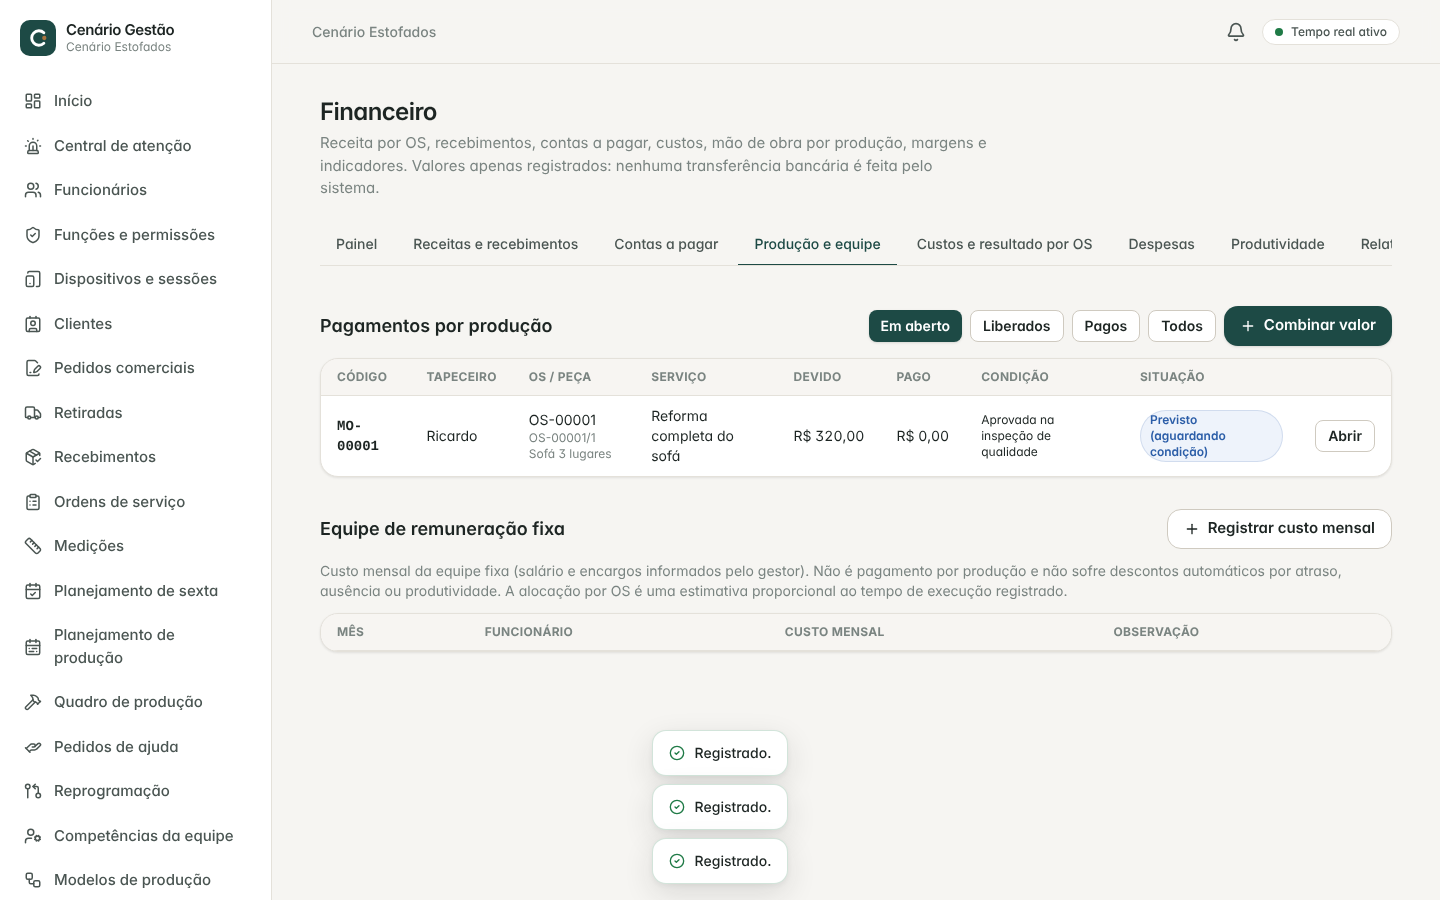
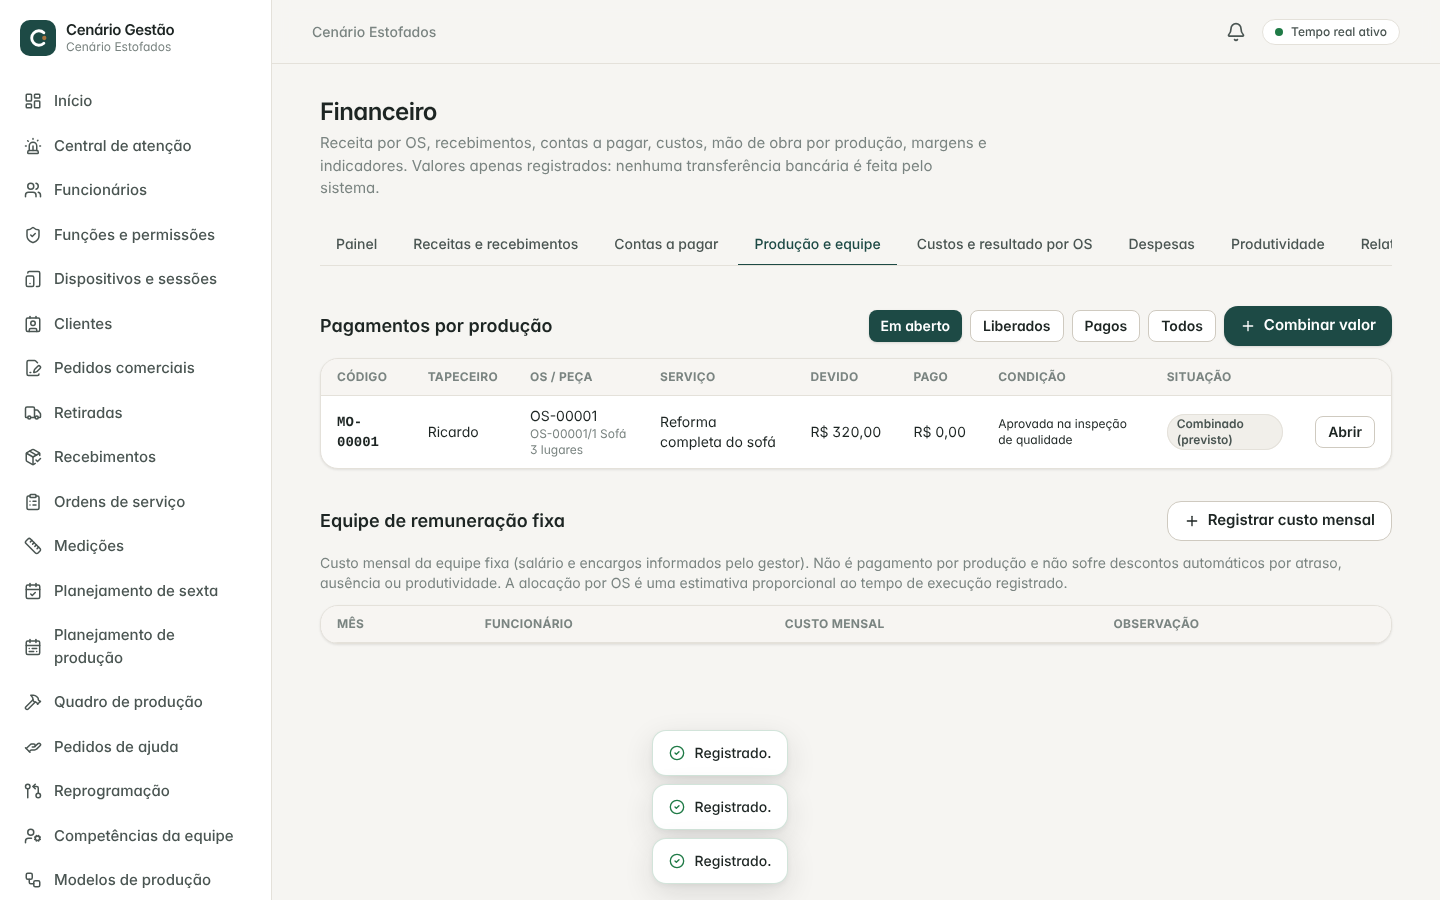
Evolução Fase 5: E2E gestor + Ricardo + Márcio + João e evidências (dados sintéticos)
Claude-Session: https://claude.ai/code/session_0124mZCwkB29MENvMMGuuXED

diff --git a/tests/e2e/specs/team-labor.spec.ts b/tests/e2e/specs/team-labor.spec.ts
@@ -1,0 +1,191 @@
+import { expect, test, type Page } from '@playwright/test';
+import { E2E } from '../env';
+import { loginAdmin, openTablet, registerDevice, setPin } from './helpers';
+import { openServiceOrder } from './os-helpers';
+
+/**
+ * Evolução, Fase 5 — mão de obra dos tapeceiros. Painel (gestor) + tablets do Ricardo, do
+ * Márcio e do João (sem permissão). Dados fictícios; nenhum pagamento real.
+ * Sofá → Ricardo (R$ 320,00, combinado na tela da OS); poltronas → Márcio (R$ 450,00). O sofá
+ * passa para o Márcio: revisão financeira aberta, resolvida pelo gestor (Ricardo R$ 100,00,
+ * Márcio R$ 220,00). Cada um vê só os próprios valores, com PIN redigitado.
+ */
+const origin = `http://localhost:${E2E.webPort}`;
+const evidence = (page: Page, name: string) =>
+  process.env.E2E_EVIDENCE
+    ? page.screenshot({ path: `../../docs/evidencias/evolucao-fase-5/${name}.png`, fullPage: true })
+    : Promise.resolve();
+
+async function call(page: Page, method: 'POST' | 'PUT' | 'GET', path: string, data?: unknown) {
+  const r = await page.request.fetch(path, {
+    method,
+    data,
+    headers: { origin, 'idempotency-key': crypto.randomUUID().replace(/-/g, '') },
+  });
+  expect(r.ok(), `${method} ${path}: ${await r.text()}`).toBe(true);
+  return r.json();
+}
+
+async function grant(page: Page, displayName: string, permission: string) {
+  const list = await call(page, 'GET', '/api/employees');
+  const summary = list.find((e: { displayName: string }) => e.displayName === displayName);
+  const e = await call(page, 'GET', `/api/employees/${summary.id}`);
+  await call(page, 'PUT', `/api/employees/${e.id}`, {
+    fullName: e.fullName,
+    displayName: e.displayName,
+    jobTitle: e.jobTitle,
+    color: e.color,
+    roleIds: e.roles.map((r: { id: string }) => r.id),
+    extraPermissions: [...new Set([...e.extraPermissions, permission])],
+    version: e.version,
+  });
+}
+
+test.describe.serial('Evolução Fase 5 — mão de obra dos tapeceiros', () => {
+  test('valor por peça na OS, substituição com revisão, resolução e "Meus valores" com PIN', async ({
+    page,
+    browser,
+  }) => {
+    test.setTimeout(300_000);
+    await page.setViewportSize({ width: 1440, height: 900 });
+    await loginAdmin(page);
+    const people = (await call(page, 'GET', '/api/v1/finance/people')) as {
+      userId: string;
+      displayName: string;
+    }[];
+    const who = (n: string) => people.find((w) => w.displayName.startsWith(n))!;
+    const RIC = who('Ricardo');
+    const MAR = who('Márcio');
+    const JOAO = who('João');
+    const so = await openServiceOrder(page, 'Cliente Mão de Obra E2E');
+    const [sofa, polt] = so.items as { id: string; code: string }[];
+    const owner = (
+      itemId: string,
+      userId: string,
+      expectedUserId: string | null,
+      reason?: string,
+    ) =>
+      call(page, 'PUT', `/api/v1/service-order-items/${itemId}/upholsterer`, {
+        userId,
+        expectedUserId,
+        reason,
+        confirm: Boolean(expectedUserId),
+      });
+    await owner(sofa!.id, RIC.userId, null);
+    await owner(polt!.id, MAR.userId, null);
+
+    // ── Painel: aba "Mão de obra" da OS; sem valor ≠ R$ 0; combinar valor do sofá ──
+    await page.goto(`/painel/os/${so.id}`);
+    await page.getByRole('tab', { name: 'Mão de obra' }).click();
+    await expect(page.getByTestId(`no-value-${sofa!.code}`)).toHaveText('Sem valor combinado.');
+    await page.getByTestId(`agree-${sofa!.code}`).click();
+    const dlg = page.getByRole('dialog');
+    await dlg.getByLabel('Serviço').fill('Reforma completa do sofá');
+    await dlg.getByLabel('Valor combinado (R$)').fill('320,00');
+    await dlg.getByLabel('Liberar o pagamento quando').selectOption('PRODUCAO_CONCLUIDA');
+    await dlg.getByRole('button', { name: 'Combinar' }).click();
+    const pieceSofa = page.getByTestId(`os-labor-piece-${sofa!.code}`);
+    await expect(pieceSofa).toContainText('R$ 320,00');
+    await expect(pieceSofa).toContainText('Combinado (previsto)');
+    await expect(pieceSofa).toContainText(`Titular: ${RIC.displayName}`);
+    const mar = await call(page, 'POST', '/api/v1/finance/labor', {
+      professionalUserId: MAR.userId,
+      serviceOrderId: so.id,
+      serviceOrderItemId: polt!.id,
+      service: 'Troca de tecido das poltronas',
+      agreedCents: 45000,
+      eligibility: 'QUALIDADE_APROVADA',
+    });
+    await page.reload();
+    await page.getByRole('tab', { name: 'Mão de obra' }).click();
+    await expect(page.getByTestId(`os-labor-piece-${polt!.code}`)).toContainText('R$ 450,00');
+    await evidence(page, '01-os-mao-de-obra-por-peca');
+
+    // ── Substituição do titular do sofá → revisão financeira, nada transferido ──
+    await owner(sofa!.id, MAR.userId, RIC.userId, 'Ricardo afastado (teste)');
+    await page.reload();
+    await page.getByRole('tab', { name: 'Mão de obra' }).click();
+    await expect(page.getByText(/Revisão financeira pendente — RF-\d{5}/)).toBeVisible();
+    await expect(pieceSofa).toContainText('Em revisão financeira');
+    await expect(pieceSofa).toContainText(RIC.displayName); // obrigação continua do Ricardo
+    await evidence(page, '02-revisao-financeira-aberta');
+    const ricPay = (await call(page, 'GET', `/api/v1/finance/service-orders/${so.id}/labor`))
+      .pieces[0].payables[0];
+    const blocked = await page.request.post(`/api/v1/finance/labor/${ricPay.id}/adjustments`, {
+      data: { amountCents: 1000, reason: 'Teste de bloqueio', version: ricPay.version },
+      headers: { origin, 'idempotency-key': crypto.randomUUID().replace(/-/g, '') },
+    });
+    expect(blocked.status()).toBe(422);
+
+    // ── Resolução explícita: Ricardo R$ 100,00 + Márcio R$ 220,00, com justificativa ──
+    await page.getByRole('button', { name: 'Resolver revisão' }).first().click();
+    const rd = page.getByRole('dialog');
+    await rd.getByTestId(`resolve-amount-${RIC.displayName}`).fill('100,00');
+    await rd.getByTestId(`resolve-amount-${MAR.displayName}`).fill('220,00');
+    await expect(rd.getByTestId('resolve-totals')).toContainText('R$ 320,00');
+    await rd.getByTestId('resolve-reason').fill('Ricardo fez a desmontagem; Márcio termina');
+    await evidence(page, '03-resolver-revisao');
+    await rd.getByTestId('resolve-submit').click();
+    await expect(page.getByText(/Revisão financeira pendente/)).toHaveCount(0);
+    await expect(pieceSofa).toContainText('R$ 100,00');
+    await expect(pieceSofa).toContainText('R$ 220,00');
+    await evidence(page, '04-revisao-resolvida');
+
+    // ── Tablets: Ricardo e Márcio autorizados (PIN a cada abertura); João sem permissão ──
+    await grant(page, RIC.displayName, 'financeiro.producao_propria');
+    await grant(page, MAR.displayName, 'financeiro.producao_propria');
+    const tablet = async (name: string, pin: string) => {
+      await setPin(page, name, pin);
+      return openTablet(browser, await registerDevice(page, `Tablet ${name} (F5)`, name), pin);
+    };
+    const r = await tablet(RIC.displayName, '482915');
+    const rt = r.page;
+    expect((await rt.request.get('/api/v1/finance/my-production')).status()).toBe(403);
+    await rt.getByTestId('tile-values').click();
+    await expect(rt.getByTestId('my-values-lock')).toBeVisible();
+    await expect(rt.getByTestId('my-values')).toHaveCount(0);
+    await rt.getByTestId('my-values-pin').fill('000000');
+    await rt.getByTestId('my-values-unlock').click();
+    await expect(rt.getByRole('alert').filter({ hasText: 'PIN' })).toBeVisible();
+    await rt.getByTestId('my-values-pin').fill('482915');
+    await rt.getByTestId('my-values-unlock').click();
+    const rv = rt.getByTestId('my-values');
+    await expect(rv).toContainText('R$ 100,00');
+    await expect(rv).not.toContainText('220,00');
+    await expect(rv).not.toContainText('450,00');
+    await expect(rv).not.toContainText(MAR.displayName);
+    await evidence(rt, '05-tablet-ricardo-meus-valores');
+    expect((await rt.request.get(`/api/v1/finance/labor/${mar.id}`)).status()).toBe(403);
+    expect((await rt.request.get(`/api/v1/finance/service-orders/${so.id}/labor`)).status()).toBe(
+      403,
+    );
+    await rt.getByTestId('my-values-hide').click();
+    await expect(rt.getByTestId('my-values')).toHaveCount(0);
+    await expect(rt.getByTestId('my-values-lock')).toBeVisible();
+    await r.context.close();
+
+    const m = await tablet(MAR.displayName, '736152');
+    await m.page.getByTestId('tile-values').click();
+    await m.page.getByTestId('my-values-pin').fill('736152');
+    await m.page.getByTestId('my-values-unlock').click();
+    const mv = m.page.getByTestId('my-values');
+    await expect(mv).toContainText('R$ 450,00');
+    await expect(mv).toContainText('R$ 220,00');
+    await expect(mv).not.toContainText('100,00');
+    await expect(mv).not.toContainText(RIC.displayName);
+    await evidence(m.page, '06-tablet-marcio-meus-valores');
+    await m.context.close();
+
+    const j = await tablet(JOAO.displayName, '121212');
+    await expect(j.page.getByTestId('tile-values')).toHaveCount(0);
+    expect(
+      (
+        await j.page.request.post('/api/v1/finance/my-production/unlock', {
+          data: { pin: '121212' },
+          headers: { origin },
+        })
+      ).status(),
+    ).toBe(403);
+    await j.context.close();
+  });
+});

diff --git a/tests/e2e/specs/team-finance.spec.ts b/tests/e2e/specs/team-finance.spec.ts
@@ -107,7 +107,7 @@ test.describe.serial('Fase 11 — financeiro operacional', () => {
     await expect(labor).toBeHidden();
     const mo = page.getByTestId('fin-labor').getByRole('row').filter({ hasText: so.code });
     await expect(mo).toContainText('R$ 320,00');
-    await expect(mo).toContainText('Previsto');
+    await expect(mo).toContainText(/previsto/i);
     await evidence(page, '02-producao-combinada');
 
     // ── Despesa operacional e painel (competência × caixa) ──
@@ -158,10 +158,13 @@ test.describe.serial('Fase 11 — financeiro operacional', () => {
     await grant(page, RICARDO, 'financeiro.producao_propria');
     await rt.reload();
     await rt.getByTestId('tile-values').click();
+    // Evolução Fase 5: tablet compartilhado → PIN redigitado a cada abertura.
+    await rt.getByTestId('my-values-pin').fill('482915');
+    await rt.getByTestId('my-values-unlock').click();
     const values = rt.getByTestId('my-values');
     await expect(values).toContainText('R$ 320,00');
     await expect(values).toContainText(so.code);
-    await expect(values).toContainText('Previsto');
+    await expect(values).toContainText(/previsto/i);
     // Nunca o valor cobrado do cliente, recebimentos ou o financeiro geral.
     await expect(values).not.toContainText('1.000,00');
     await expect(values).not.toContainText('200,00');
